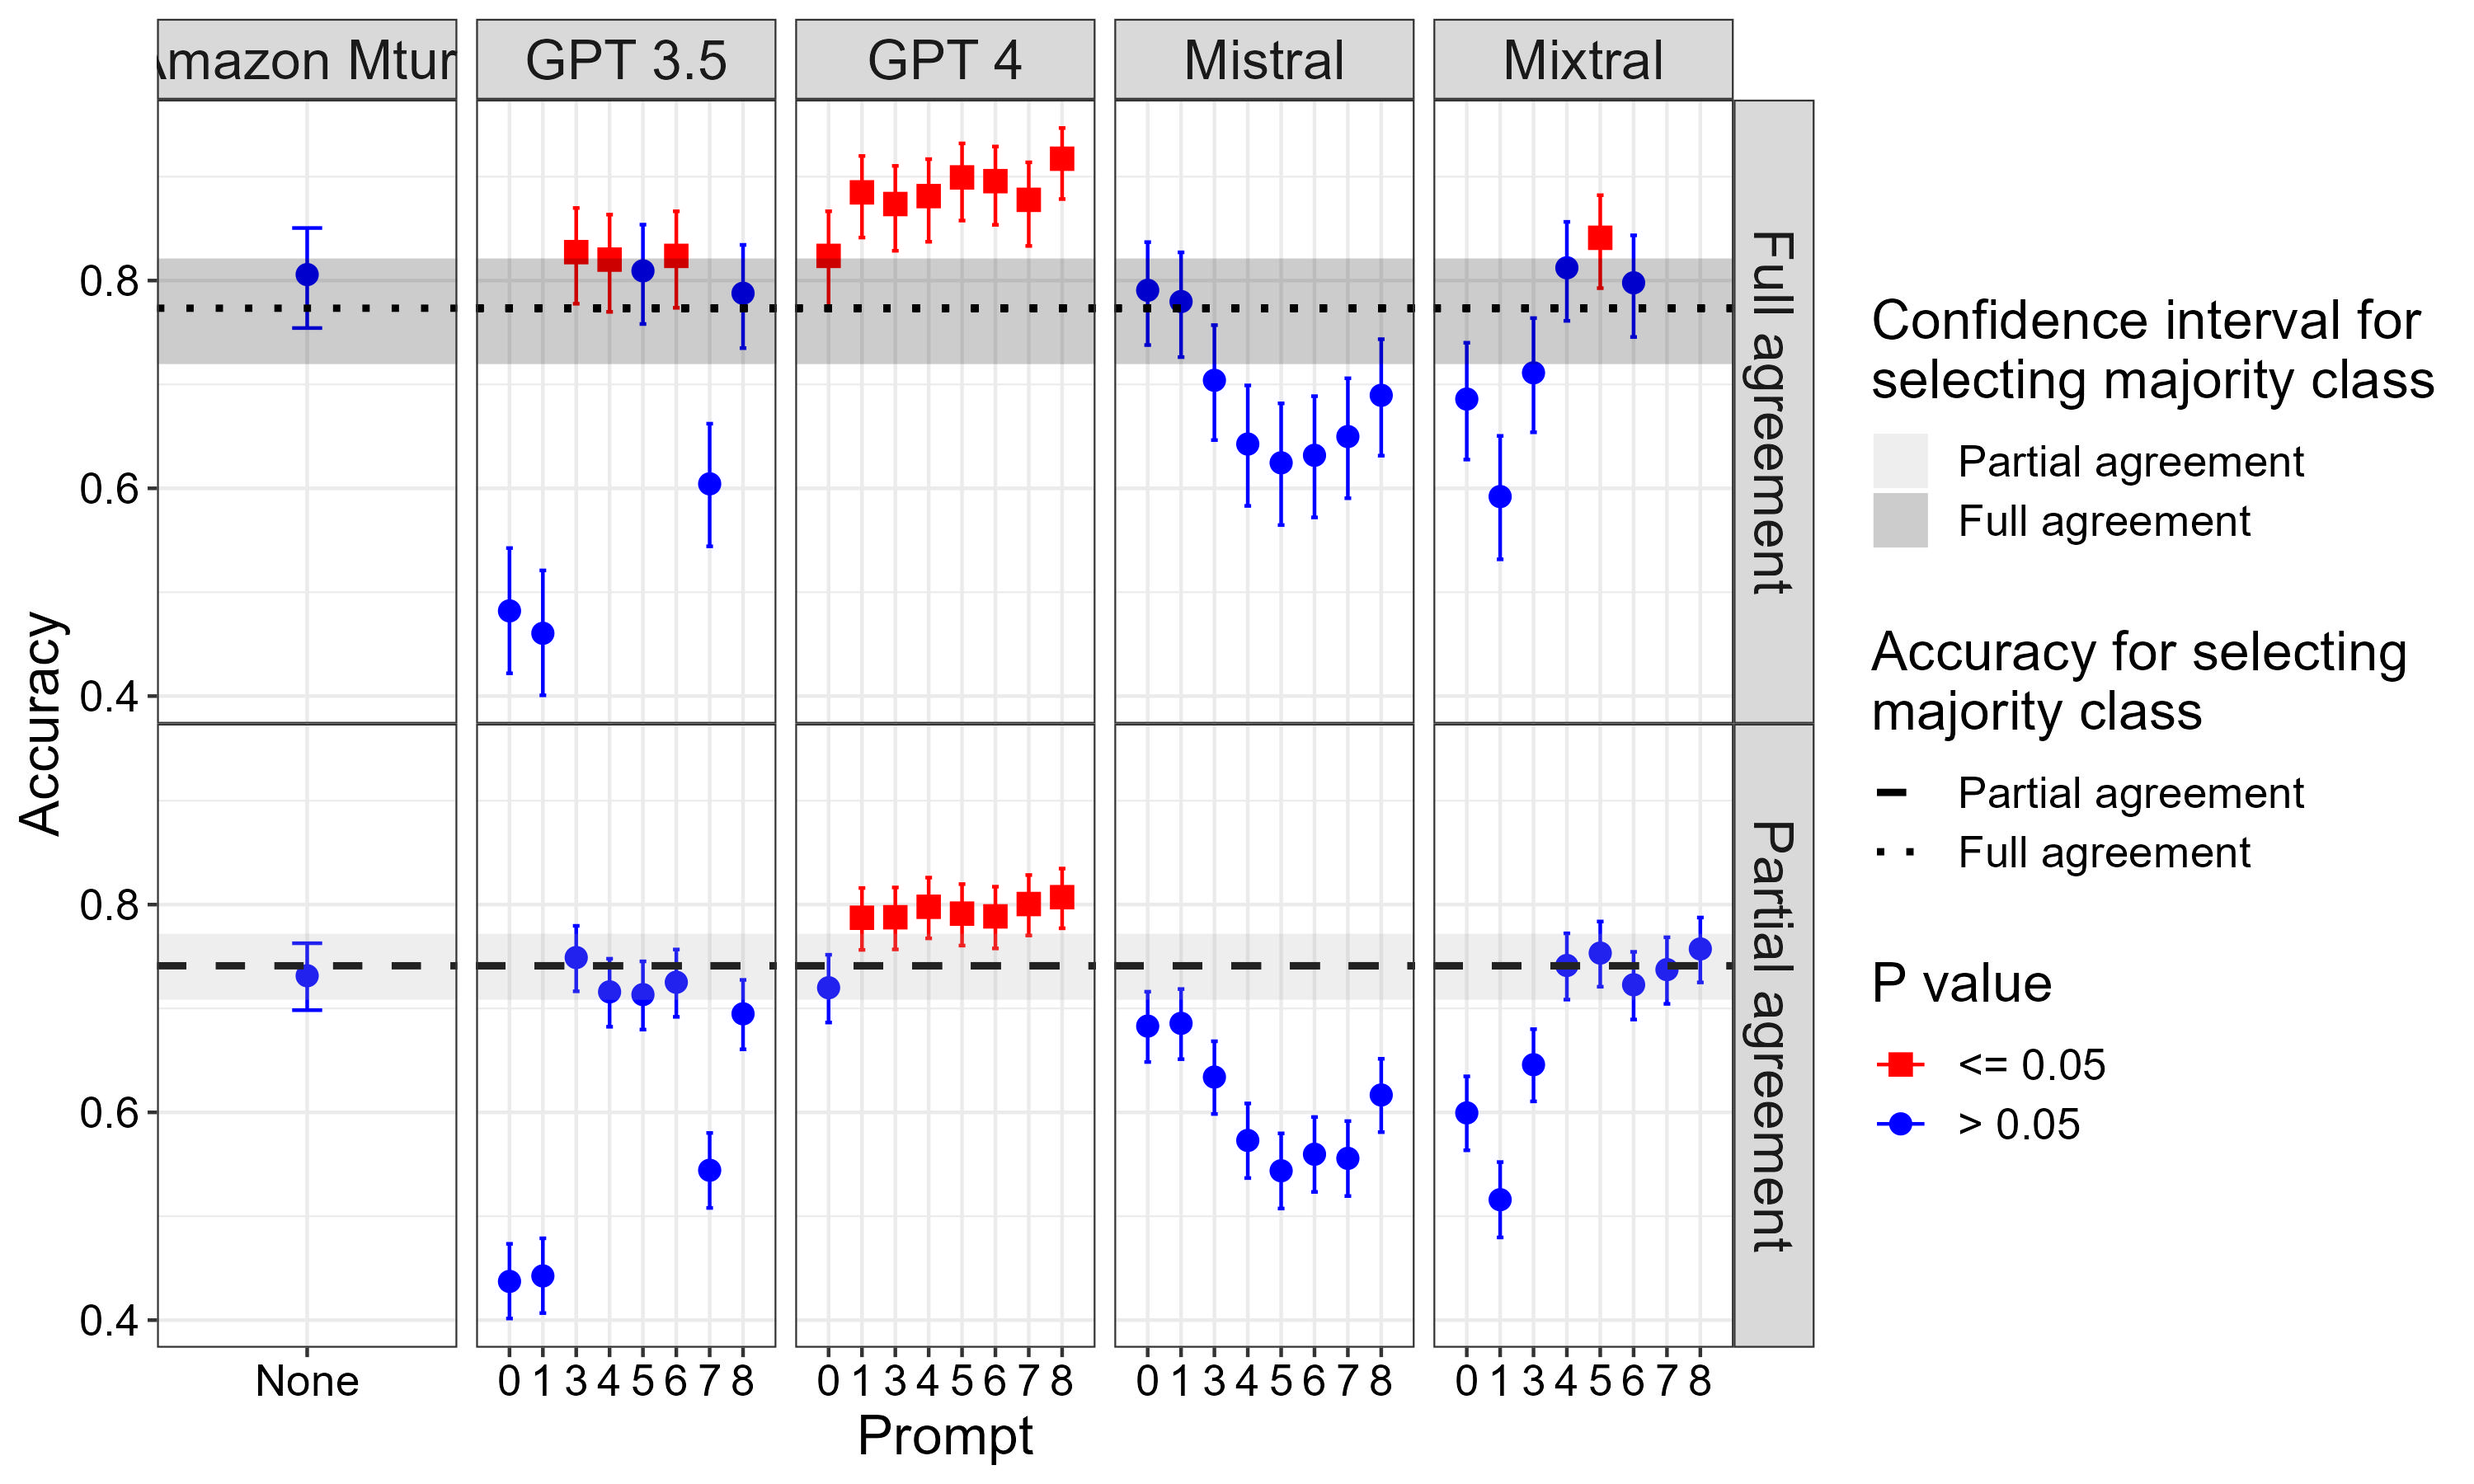
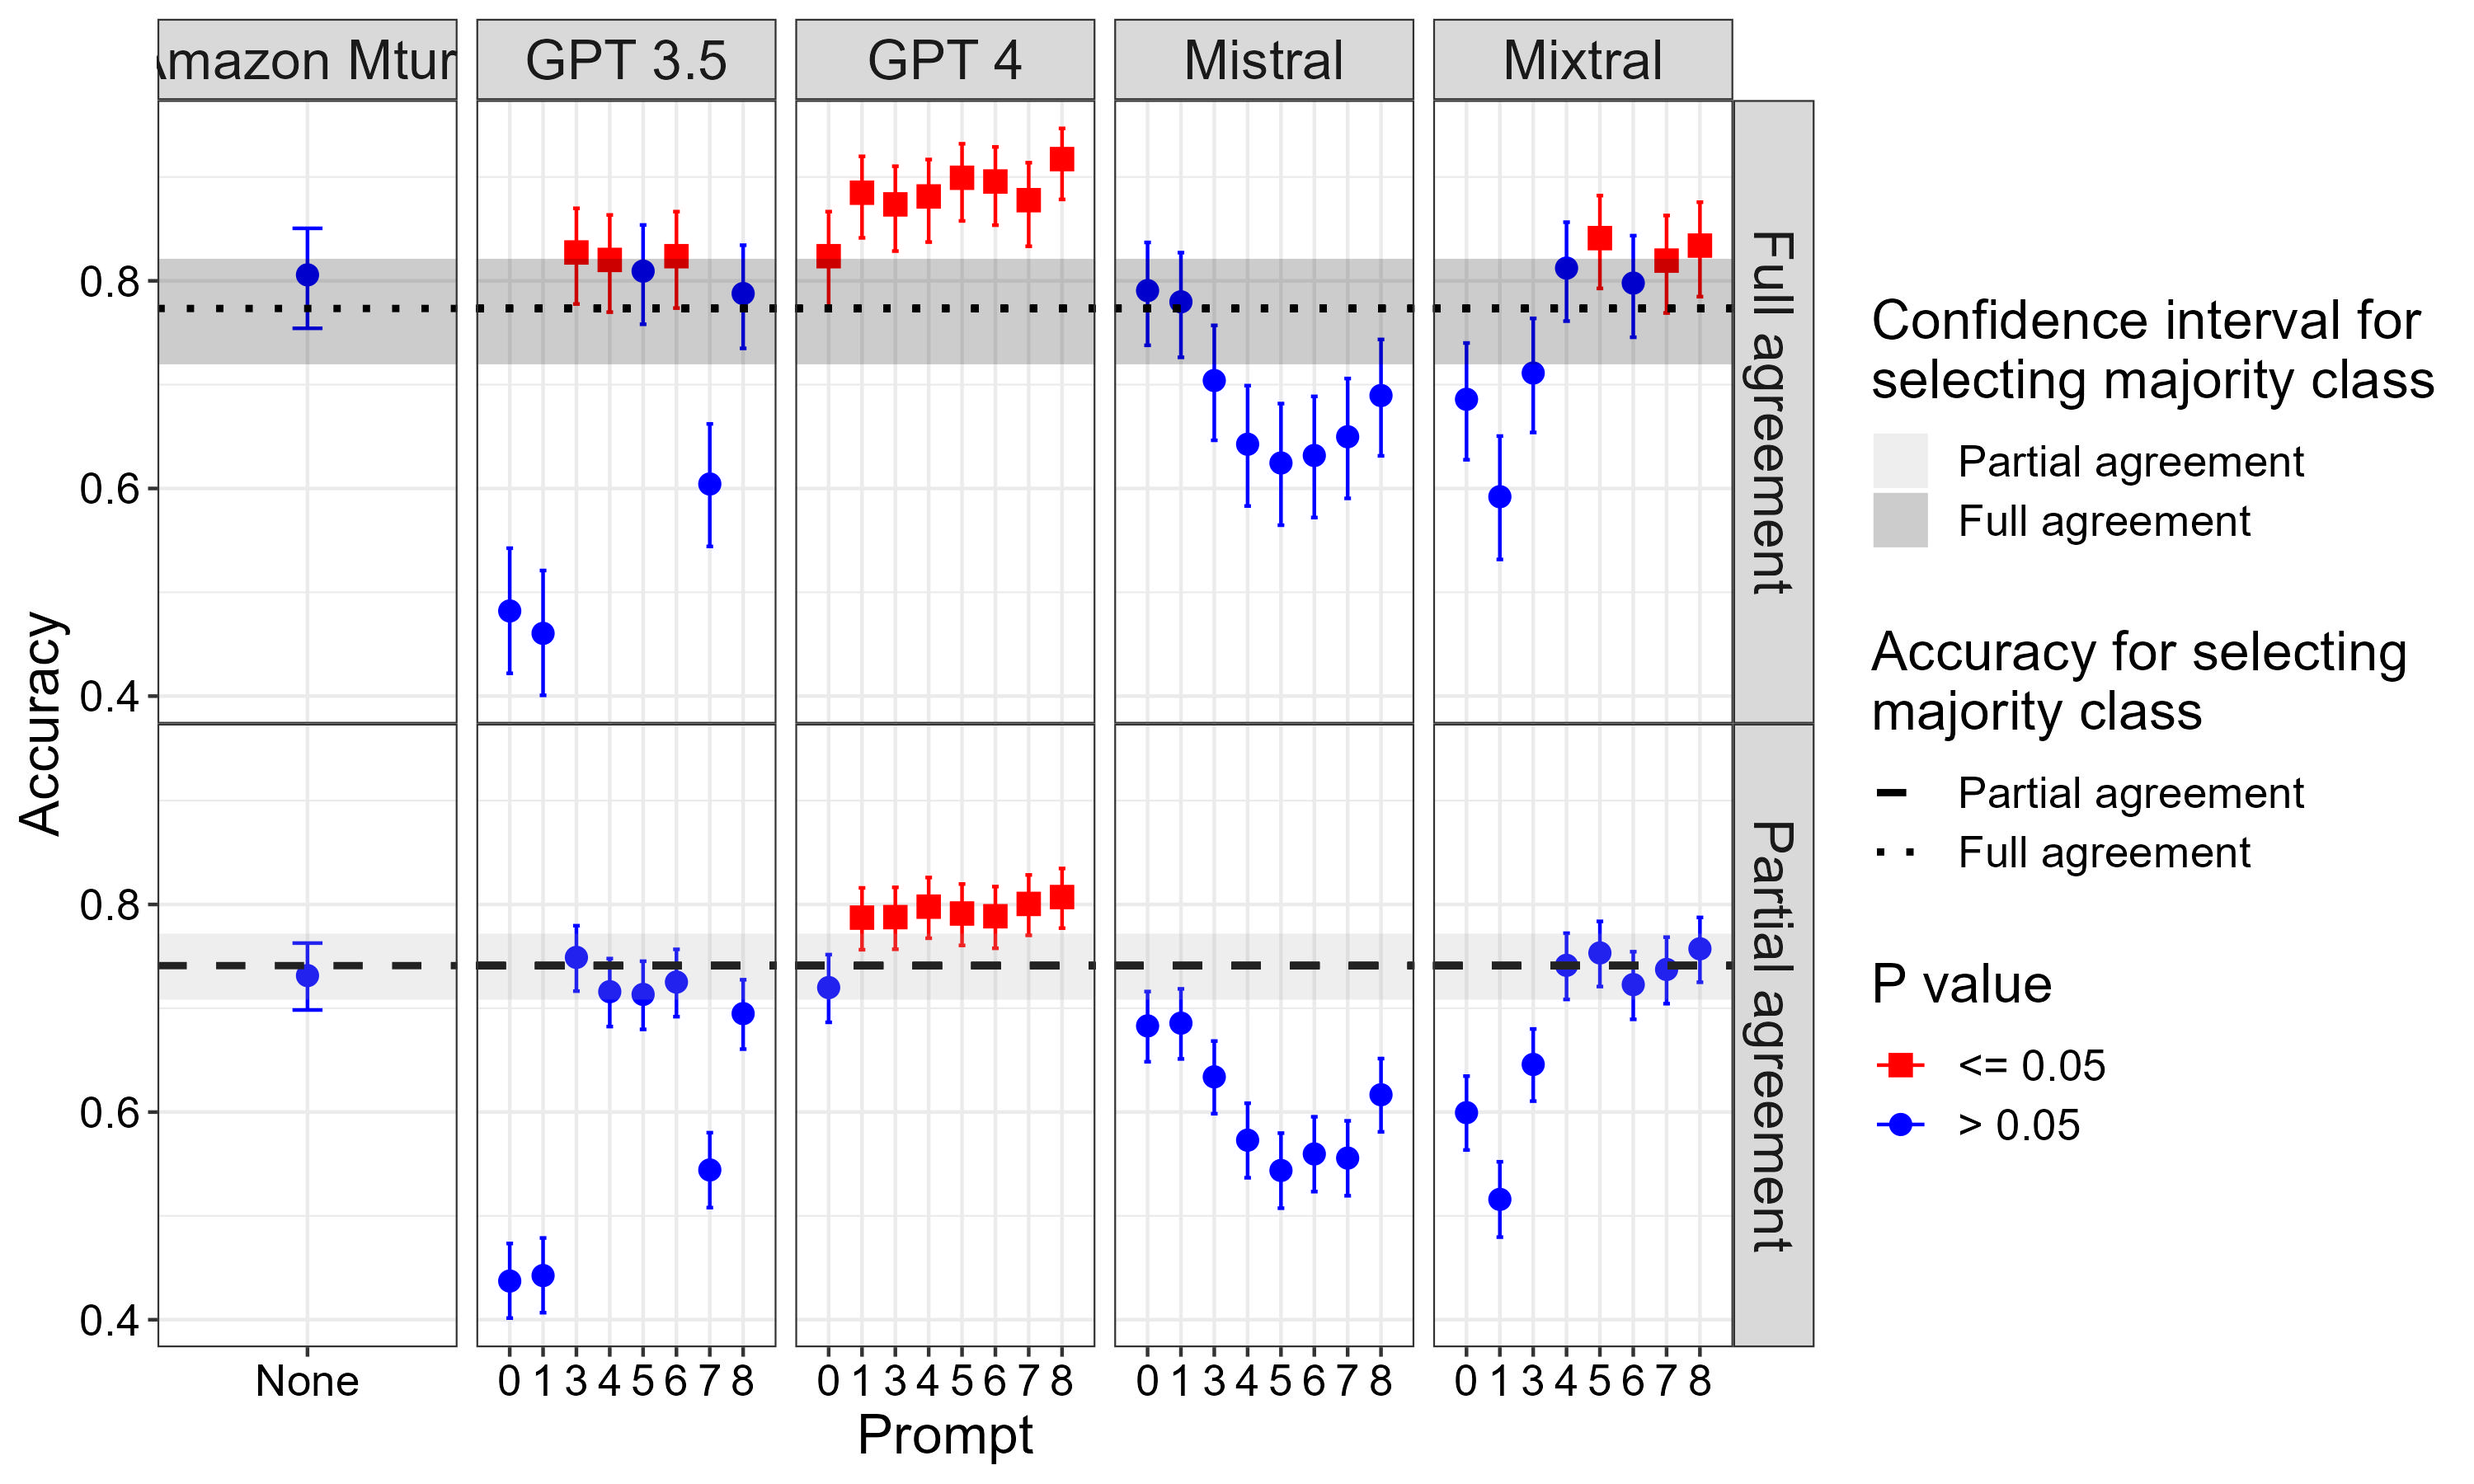
improved fig 3 and mixtral code

Changed region(s): [[0.651, 0.1556, 0.713, 0.1867], [0.682, 0.0622, 0.713, 0.0933], [0.558, 0.0622, 0.589, 0.0933]]

diff --git a/scripts/mixtral_prompts.py b/scripts/mixtral_prompts.py
@@ -1,0 +1,127 @@
+# Import libraries
+import pandas as pd
+from llama_index.llms import Ollama
+
+# Getting mistral and dataset
+llm = Ollama(
+        base_url = "http://iccluster133.iccluster.epfl.ch:12923",
+        model="mixtral", 
+        temperature = 0.8,
+        request_timeout = 300.0
+        )
+
+df = pd.read_csv("tweets_for_annotation.csv").reset_index()
+print(df.info())
+
+print(len(df))
+
+# Getting prompts 
+prompts = pd.read_csv("prompts_text.csv")
+prompt_0 = prompts.iloc[0,1]
+prompt_1 = prompts.iloc[1,1]
+prompt_3 = prompts.iloc[2,1]
+prompt_4 = prompts.iloc[3,1]
+prompt_5 = prompts.iloc[4,1]
+prompt_6 = prompts.iloc[5,1]
+prompt_7 = prompts.iloc[6,1]
+prompt_8 = prompts.iloc[7,1]
+
+
+# Setting up the columns for the database with the sentiment
+id_mixtral = []
+sent_mixtral = []
+text = []
+
+# Prompt 0    
+
+## Loop to get the sentiment from mistral
+
+for i in range(0, 999):
+    prompt_i = prompt_0.replace('TWEET_TEXT_HERE', df.iloc[i,2])
+    response = llm.complete(prompt_i)
+    text.append(df.iloc[i,2])
+    sent_mixtral.append(response)
+    id_mixtral.append(df.iloc[i,1])
+    print(i, "prompt0") # Check how many tweets are left
+
+## Save the sentiment in a file and export it
+df_mixtral_0 = pd.DataFrame(list(zip(id_mixtral, text, sent_mixtral)),
+        columns = ['id', 'text', 'sentiment_mixtral'])
+
+df_mixtral_0['prompt'] = 0
+
+print(df_mixtral_0.info())
+print(df_mixtral_0.head())
+print(len(df_mixtral_0))
+
+df_mixtral_0.to_csv('mixtral_sentiment_prompt0.csv')
+
+# Prompt 1     
+
+## Loop to get the sentiment from mistral
+
+for i in range(0, 999):
+    prompt_i = prompt_1.replace('TWEET_TEXT_HERE', df.iloc[i,2])
+    response = llm.complete(prompt_i)
+    text.append(df.iloc[i,2])
+    sent_mixtral.append(response)
+    id_mixtral.append(df.iloc[i,1])
+    print(i, "prompt1") # Check how many tweets are left
+
+## Save the sentiment in a file and export it
+df_mixtral_1 = pd.DataFrame(list(zip(id_mixtral, text, sent_mixtral)),
+        columns = ['id', 'text', 'sentiment_mixtral'])
+
+df_mixtral_1['prompt'] = 1
+
+print(df_mixtral_1.info())
+print(df_mixtral_1.head())
+print(len(df_mixtral_1))
+
+df_mixtral_1.to_csv('mixtral_sentiment_prompt1.csv')
+
+# Prompt 3     
+
+## Loop to get the sentiment from mistral
+
+for i in range(0, 999):
+    prompt_i = prompt_3.replace('TWEET_TEXT_HERE', df.iloc[i,2])
+    response = llm.complete(prompt_i)
+    text.append(df.iloc[i,2])
+    sent_mixtral.append(response)
+    id_mixtral.append(df.iloc[i,1])
+    print(i, "prompt3") # Check how many tweets are left
+
+## Save the sentiment in a file and export it
+df_mixtral_3 = pd.DataFrame(list(zip(id_mixtral, text, sent_mixtral)),
+        columns = ['id', 'text', 'sentiment_mixtral'])
+
+df_mixtral_3['prompt'] = 3
+
+print(df_mixtral_3.info())
+print(df_mixtral_3.head())
+print(len(df_mixtral_3))
+
+# Prompt 4   
+
+## Loop to get the sentiment from mistral
+
+for i in range(0, 999):
+    prompt_i = prompt_4.replace('TWEET_TEXT_HERE', df.iloc[i,2])
+    response = llm.complete(prompt_i)
+    text.append(df.iloc[i,2])
+    sent_mixtral.append(response)
+    id_mixtral.append(df.iloc[i,1])
+    print(i, "prompt4") # Check how many tweets are left
+
+## Save the sentiment in a file and export it
+df_mixtral_4 = pd.DataFrame(list(zip(id_mixtral, text, sent_mixtral)),
+        columns = ['id', 'text', 'sentiment_mixtral'])
+
+df_mixtral_4['prompt'] = 4
+
+print(df_mixtral_4.info())
+print(df_mixtral_4.head())
+print(len(df_mixtral_4))
+
+df_mixtral_4.to_csv('mixtral_sentiment_prompt4.csv')
